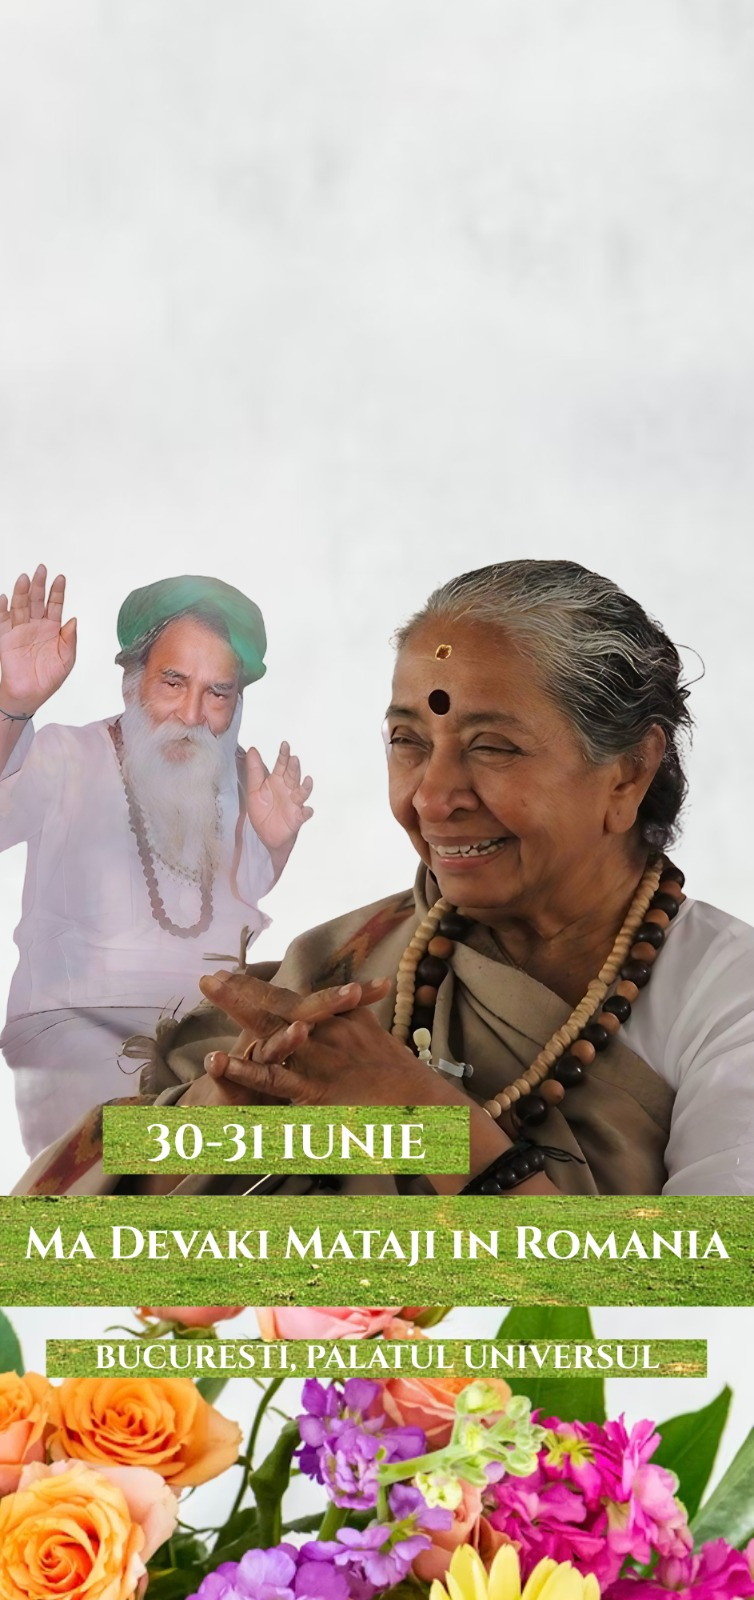
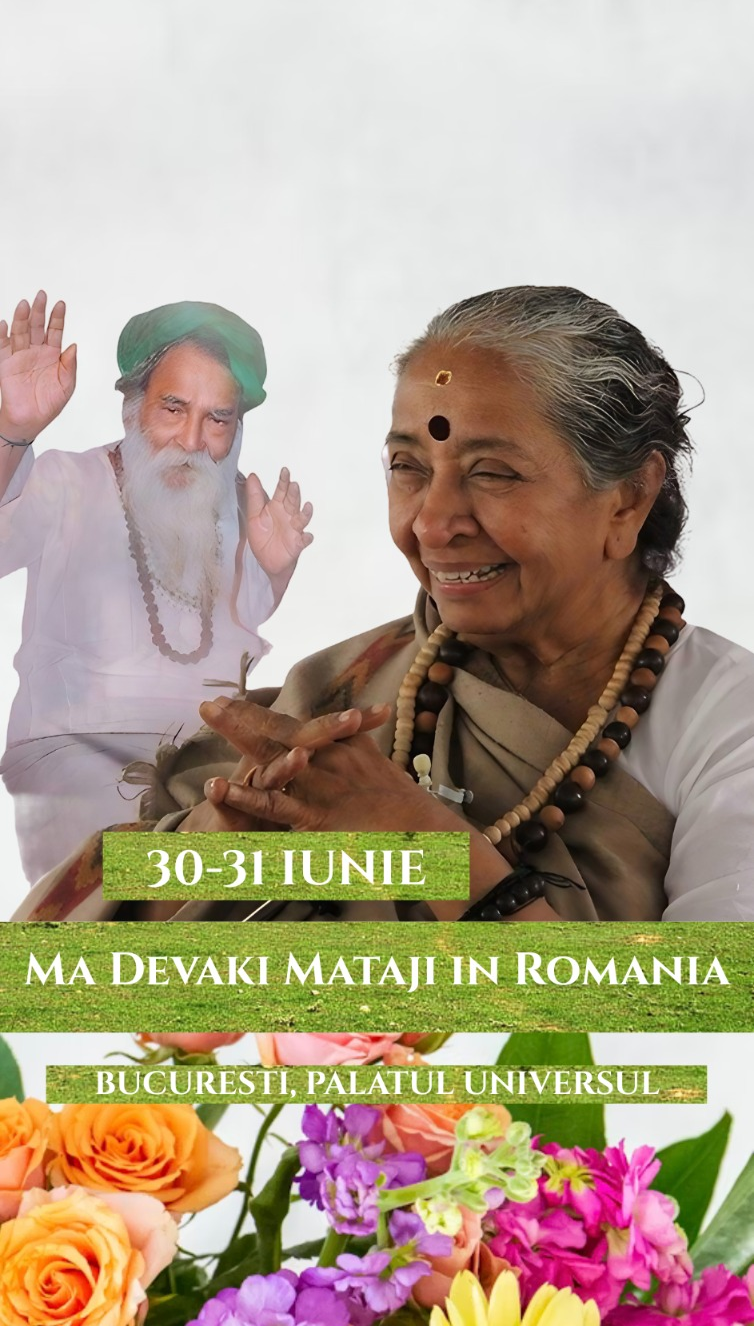
Theme change
- change theme
- add videos
- shorten heigh picture

diff --git a/src/app/app.component.html b/src/app/app.component.html
@@ -36,31 +36,25 @@
   </div>
 </nav>
 
-<!-- <div class="side-social-links">
-  <a href="https://www.facebook.com/swamiatmanandaudasin" target="_blank">
+<div class="side-social-links">
+  <a href="https://www.youtube.com/@swamiatmanandaudasin7306" target="_blank">
     <mat-icon class="facebook" svgIcon="facebook" />
   </a>
-  <a href="https://www.youtube.com/@swamiatmanandaudasin7306" target="_blank">
+  <a
+    href="https://www.youtube.com/@yogiramsuratkumarashram1918"
+    target="_blank"
+  >
     <mat-icon class="youtube" svgIcon="youtube" />
   </a>
-  <a href="https://ajatananda.org/support-2/" target="_blank">
+  <a href="https://www.yogiramsuratkumarashram.org/" target="_blank">
     <mat-icon class="yin-yang" svgIcon="yin-yang" />
   </a>
-</div> -->
+</div>
 
 <section id="home" class="hero">
   <div class="hero-overlay"></div>
   <div class="container">
     <div class="main-page">
-      <!-- <span class="main-page-container">
-        <span class="large-font">{{ "TITLE.LINE_1" | transloco }}</span>
-        <span class="small-font">{{ "TITLE.LINE_2" | transloco }}</span>
-      </span>
-      <span class="main-page-container">
-        <span class="small-font">{{ "TITLE.LINE_3" | transloco }}</span>
-        <span class="large-font special">{{ "TITLE.LINE_4" | transloco }}</span>
-      </span>
-      <p class="small-font">{{ "TITLE.TIME" | transloco }}</p> -->
       <a href="#register" class="register-button">{{
         "TITLE.REGISTER_NOW" | transloco
       }}</a>
@@ -165,42 +159,40 @@
           <div class="carousel-slide">
             <div class="video-card">
               <iframe
-                src="https://www.youtube.com/embed/MH7beFld-mM?si=DlO0W6F03Qd5tOEp"
-                title="Grace Is What You Are"
-                frameborder="0"
-                allow="accelerometer; autoplay; clipboard-write; encrypted-media; gyroscope; picture-in-picture; web-share"
-                referrerpolicy="strict-origin-when-cross-origin"
-                allowfullscreen
-              >
-              </iframe>
-              <h3>Grace Is What You Are</h3>
-            </div>
-          </div>
-          <div class="carousel-slide">
-            <div class="video-card">
-              <iframe
-                src="https://www.youtube.com/embed/TMFkLb-I0LM?si=_43i1XTKE89LxrRM"
-                title="Only Silence Can Hear Silence!"
-                frameborder="0"
-                allow="accelerometer; autoplay; clipboard-write; encrypted-media; gyroscope; picture-in-picture; web-share"
-                referrerpolicy="strict-origin-when-cross-origin"
-                allowfullscreen
-              >
-              </iframe>
-              <h3>Only Silence Can Hear Silence!</h3>
-            </div>
-          </div>
-          <div class="carousel-slide">
-            <div class="video-card">
-              <iframe
-                src="https://www.youtube.com/embed/xK-KK6iC6nk?si=-F4KOchTJXFLRR0R"
+                src="https://www.youtube.com/embed/VFaEg4sFJmE?si=koncrcyiS_I_GvaG"
                 title="YouTube video player"
                 frameborder="0"
                 allow="accelerometer; autoplay; clipboard-write; encrypted-media; gyroscope; picture-in-picture; web-share"
                 referrerpolicy="strict-origin-when-cross-origin"
                 allowfullscreen
               ></iframe>
-              <h3>Can the Wave Surrender to the Ocean?</h3>
+              <h3>God and his Name is one</h3>
+            </div>
+          </div>
+          <div class="carousel-slide">
+            <div class="video-card">
+              <iframe
+                src="https://www.youtube.com/embed/ExyVTCTAUwQ?si=DpNnIoyACLEdk2OV"
+                title="YouTube video player"
+                frameborder="0"
+                allow="accelerometer; autoplay; clipboard-write; encrypted-media; gyroscope; picture-in-picture; web-share"
+                referrerpolicy="strict-origin-when-cross-origin"
+                allowfullscreen
+              ></iframe>
+              <h3>Ashram Songs</h3>
+            </div>
+          </div>
+          <div class="carousel-slide">
+            <div class="video-card">
+              <iframe
+                src="https://www.youtube.com/embed/2TrT7kzIo0g"
+                title="YouTube video player"
+                frameborder="0"
+                allow="accelerometer; autoplay; clipboard-write; encrypted-media; gyroscope; picture-in-picture; web-share"
+                referrerpolicy="strict-origin-when-cross-origin"
+                allowfullscreen
+              ></iframe>
+              <h3>Nama Celebration at the Yogi Ramsuratkumar Ashram</h3>
             </div>
           </div>
         </div>
@@ -269,7 +261,6 @@
   </div>
 </section>
 
-
 <section id="program" class="program">
   <div class="container">
     <h2>{{ "SCHEDULE.TITLE" | transloco }}</h2>
@@ -285,7 +276,6 @@
         <h3>{{ "SCHEDULE.FRIDAY.TITLE" | transloco }}</h3>
         <ul>
           <li>{{ "SCHEDULE.FRIDAY.LINE_1" | transloco }}</li>
-          <!-- <li>{{ "SCHEDULE.FRIDAY.LINE_2" | transloco }}</li> -->
           <li>{{ "SCHEDULE.FRIDAY.LINE_3" | transloco }}</li>
         </ul>
       </div>
@@ -293,9 +283,6 @@
         <h3>{{ "SCHEDULE.SATURDAY.TITLE" | transloco }}</h3>
         <ul>
           <li>{{ "SCHEDULE.SATURDAY.LINE_1" | transloco }}</li>
-          <!-- <li>{{ "SCHEDULE.SATURDAY.LINE_2" | transloco }}</li>
-          <li>{{ "SCHEDULE.SATURDAY.LINE_3" | transloco }}</li>
-          <li>{{ "SCHEDULE.SATURDAY.LINE_4" | transloco }}</li> -->
           <li>{{ "SCHEDULE.SATURDAY.LINE_5" | transloco }}</li>
         </ul>
       </div>
@@ -304,14 +291,6 @@
         <p>
           {{ "PRESENTATION.TRANSLATION.DESCRIPTION" | transloco }}
         </p>
-        <!-- <h3>{{ "SCHEDULE.SUNDAY.TITLE" | transloco }}</h3>
-        <ul>
-          <li>{{ "SCHEDULE.SUNDAY.LINE_1" | transloco }}</li>
-          <li>{{ "SCHEDULE.SUNDAY.LINE_2" | transloco }}</li>
-          <li>{{ "SCHEDULE.SUNDAY.LINE_3" | transloco }}</li>
-          <li>{{ "SCHEDULE.SUNDAY.LINE_4" | transloco }}</li>
-          <li>{{ "SCHEDULE.SUNDAY.LINE_5" | transloco }}</li>
-        </ul> -->
       </div>
     </div>
   </div>

diff --git a/src/styles.scss b/src/styles.scss
@@ -6,9 +6,9 @@ html {
 }
 
 :root {
-  --primary: #cc5500;
-  --secondary: #ffefe4;
-  --dark-brown: #2d1810;
+  --primary: 	#228B22;
+  --secondary: #f0ffe6;
+  --dark-brown: #097969;
 }
 
 * {
@@ -70,14 +70,14 @@ h6 {
 }
 
 .nav-link {
-  color: #cc5500;
+  color: var(--primary);
   text-decoration: none;
   font-size: 1.125rem;
   font-weight: 500;
 }
 
 .nav-link:hover {
-  color: #b54a00;
+  color: var(--secondary);
 }
 
 .nav-toggle {
@@ -136,7 +136,7 @@ h6 {
 }
 
 .button:hover {
-  background-color: #b54a00;
+  background-color: var(--primary);
 }
 
 /* Program Section */
